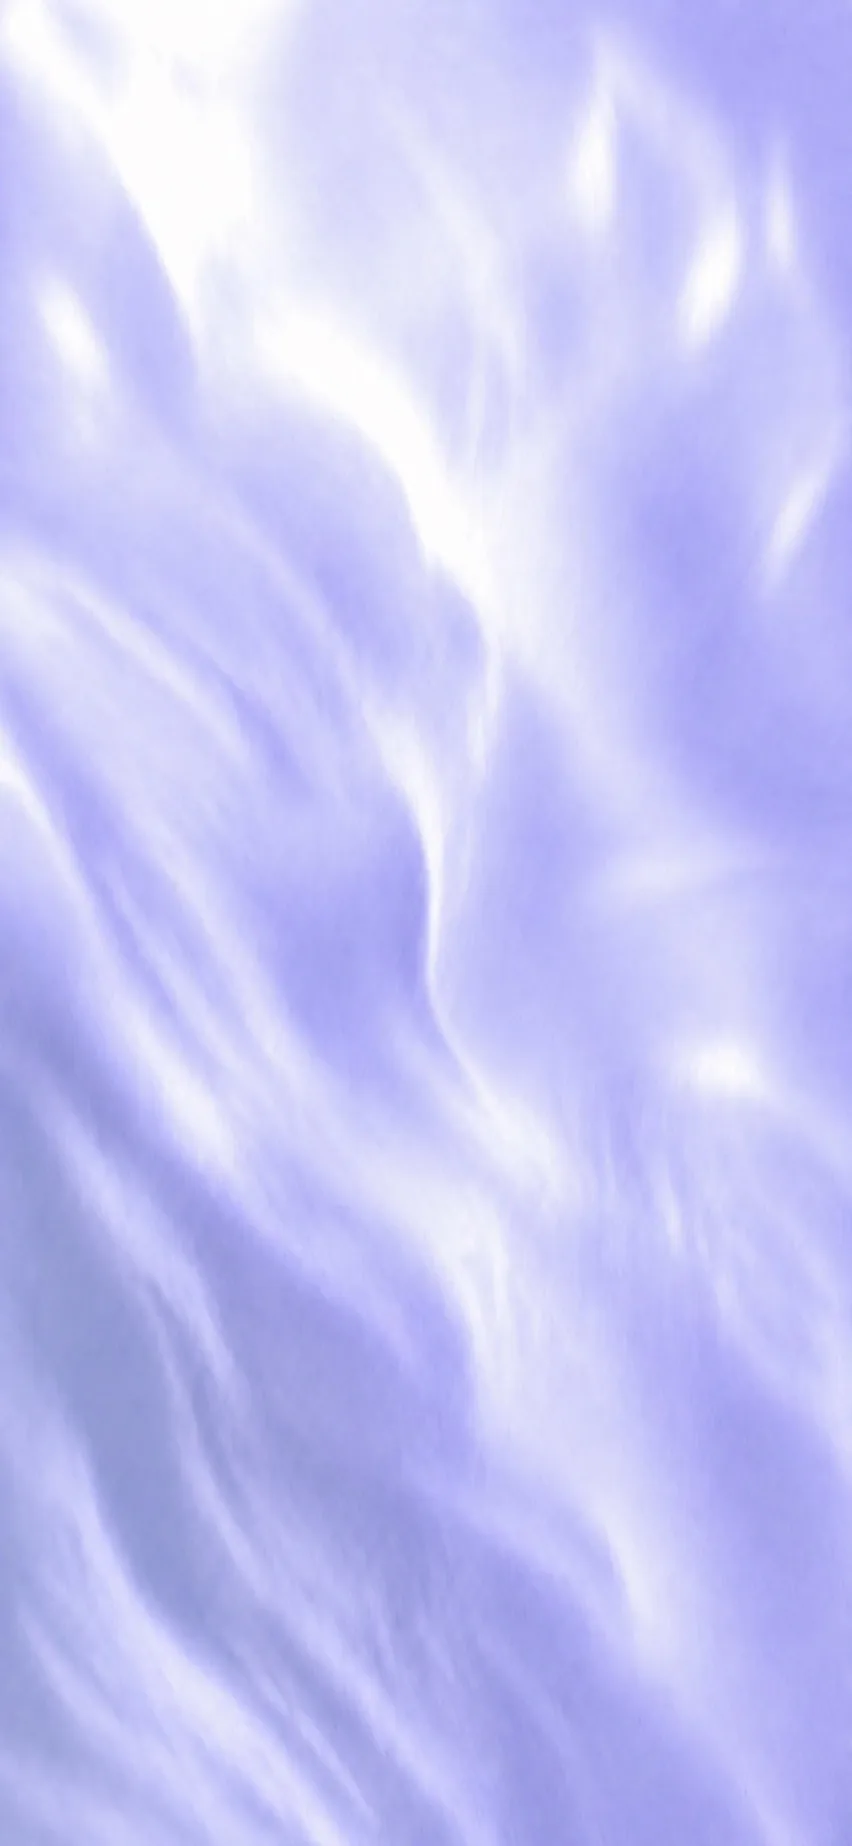
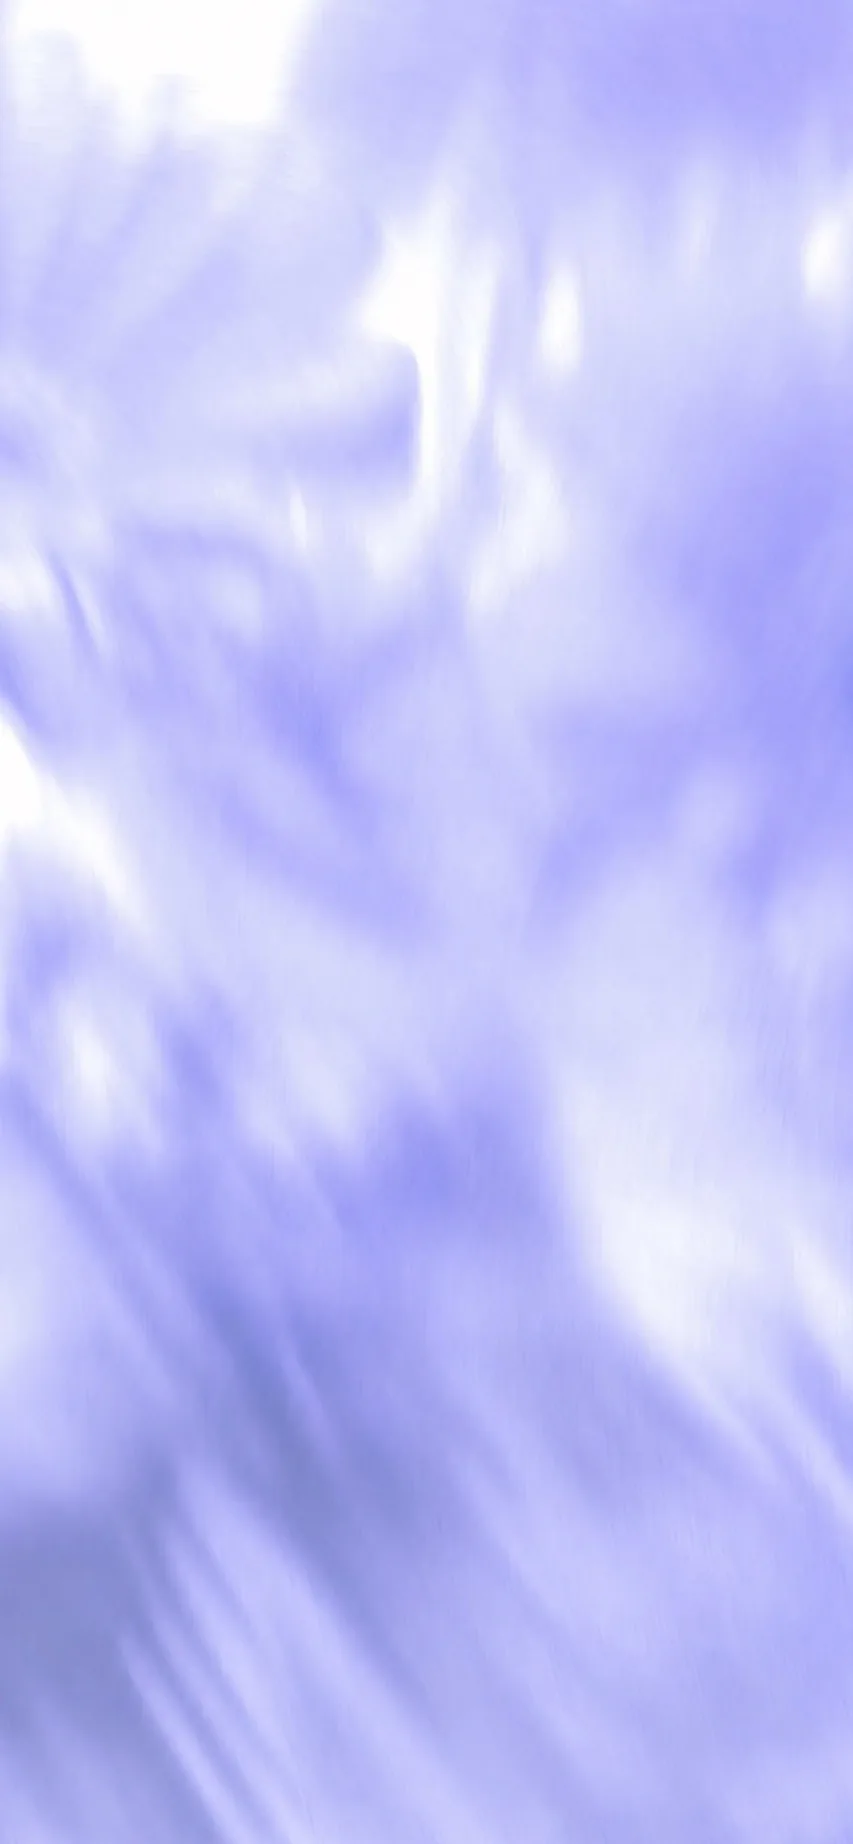
白天壁纸换新（23KB）；sw v7
Claude-Session: https://claude.ai/code/session_01BQjst4iL8MEGTRVD2utyqx

diff --git a/sw.js b/sw.js
@@ -1,6 +1,6 @@
 // 离线：壳子（页面 / 脚本 / 样式 / 字体 / 牌背 / 边框）装机时预存；78 张牌面第一次看到时存起来。
 // 改了代码记得把 VERSION 加一，老缓存才会换掉。
-const VERSION = 'chambre-v6';
+const VERSION = 'chambre-v7';
 const SHELL = [
   './', './index.html', './manifest.webmanifest',
   './css/app.css',
